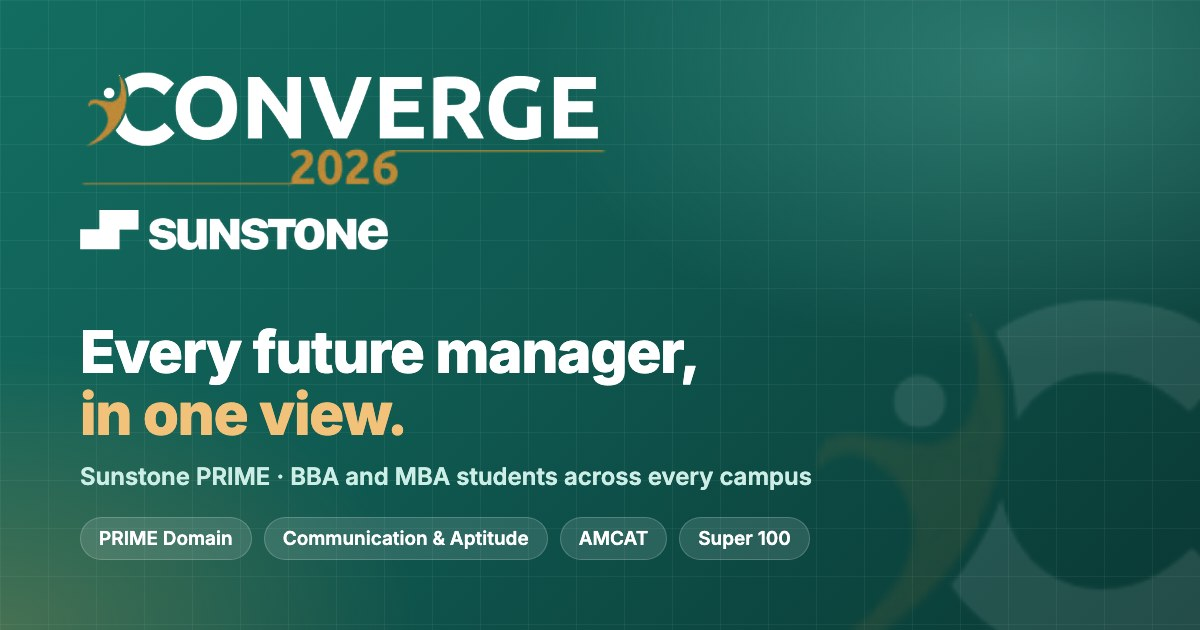
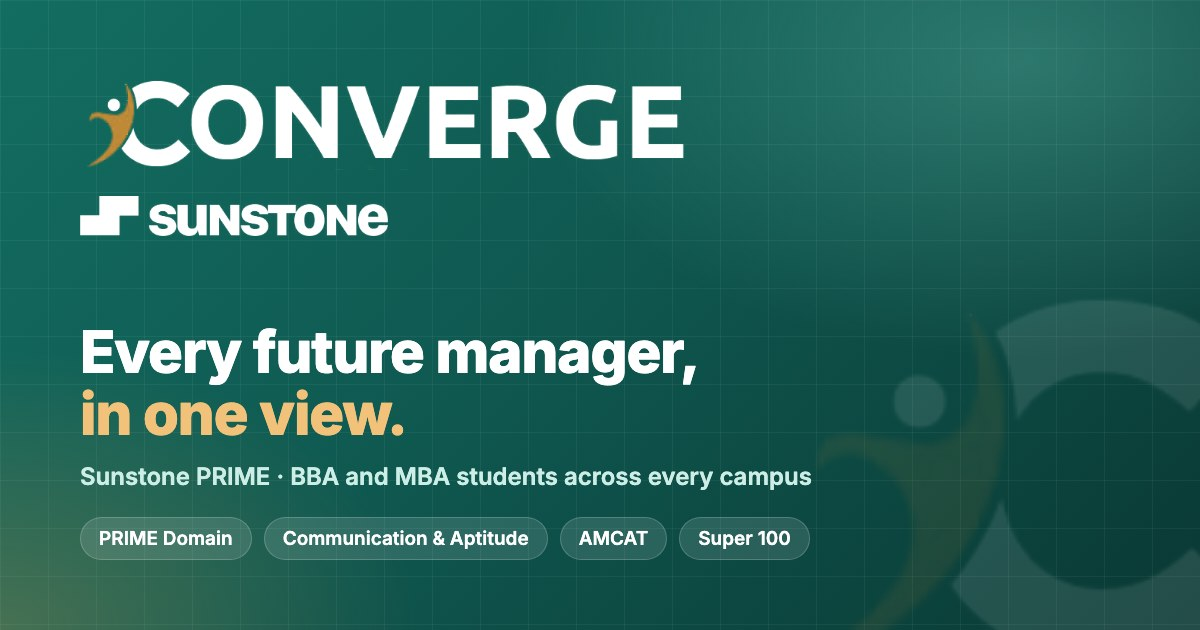
Converge: the name is "Converge · Sunstone PRIME", without 2026
Titles, emails, link previews and on-page text drop "2026", and the logo is the
CONVERGE wordmark without the 2026 line (converge-wordmark-*.png).

Changed region(s): [[0.0617, 0.1206, 0.5858, 0.4222]]

diff --git a/converge.html b/converge.html
@@ -7,7 +7,7 @@
     <meta name="theme-color" content="#1a3e70" />
     <!-- Internal dashboard listing students by name: keep it out of search results. -->
     <meta name="robots" content="noindex, nofollow" />
-    <title>Converge 2026 · Sunstone PRIME</title>
+    <title>Converge · Sunstone PRIME</title>
     <meta
       name="description"
       content="Student progress for Sunstone PRIME management students (BBA, MBA): PRIME domains, communication and aptitude, AMCAT, internal marks, attendance and Super 100."
@@ -20,7 +20,7 @@
     -->
     <meta property="og:type" content="website" />
     <meta property="og:site_name" content="Sunstone PRIME" />
-    <meta property="og:title" content="Converge 2026 · Sunstone PRIME" />
+    <meta property="og:title" content="Converge · Sunstone PRIME" />
     <meta
       property="og:description"
       content="Every future manager, in one view: PRIME domains, communication and aptitude, AMCAT, internal marks, attendance and Super 100 for Sunstone PRIME's BBA and MBA students."
@@ -32,11 +32,11 @@
     <meta property="og:image:height" content="630" />
     <meta
       property="og:image:alt"
-      content="Converge 2026 by Sunstone PRIME: every future manager, in one view"
+      content="Converge by Sunstone PRIME: every future manager, in one view"
     />
     <meta property="og:locale" content="en_IN" />
     <meta name="twitter:card" content="summary_large_image" />
-    <meta name="twitter:title" content="Converge 2026 · Sunstone PRIME" />
+    <meta name="twitter:title" content="Converge · Sunstone PRIME" />
     <meta
       name="twitter:description"
       content="PRIME domains, communication and aptitude, AMCAT, internal marks, attendance and Super 100 for BBA and MBA students."

diff --git a/api/_email.ts b/api/_email.ts
@@ -282,21 +282,21 @@ export const SITE = 'https://vertex.sunstone.in';
 
 /**
  * How emails look and where they link, for the site they are sent from (api/_app.ts):
- * Vertex, or Converge 2026 (management students). CONVERGE_SITE_URL overrides Converge's
+ * Vertex, or Converge (management students). CONVERGE_SITE_URL overrides Converge's
  * address (e.g. a vercel.app address until converge.sunstone.in is set up).
  */
 export function brand() {
   if (currentApp() === 'converge') {
     return {
-      name: 'Converge 2026',
-      full: 'Converge 2026 · Sunstone PRIME',
+      name: 'Converge',
+      full: 'Converge · Sunstone PRIME',
       header:
-        'Converge <span style="color:#d4a24c">2026</span> <span style="color:#b5cae6;font-weight:normal;font-size:13px">· Sunstone PRIME</span>',
+        'Converge <span style="color:#d4a24c">·</span> <span style="color:#b5cae6;font-weight:normal;font-size:13px">Sunstone PRIME</span>',
       site: (process.env.CONVERGE_SITE_URL?.trim() || 'https://converge.sunstone.in').replace(
         /\/+$/,
         ''
       ),
-      logoWhite: 'converge-logo-white.png',
+      logoWhite: 'converge-wordmark-white.png',
     };
   }
   return {
@@ -308,7 +308,7 @@ export function brand() {
   };
 }
 
-/** The sender with the site's name: "Converge 2026 · Sunstone PRIME <noreply@…>" for Converge. */
+/** The sender with the site's name: "Converge · Sunstone PRIME <noreply@…>" for Converge. */
 function sentAs(from: string) {
   if (currentApp() !== 'converge') return from;
   const address = from.match(/<([^>]+)>/)?.[1] ?? from.trim();

diff --git a/src/converge/components/Layout.tsx b/src/converge/components/Layout.tsx
@@ -41,11 +41,7 @@ export function Layout() {
         />
         <div className="border-b border-slate-200/80 shadow-[0_8px_24px_-18px_rgb(15_23_42/0.35)]">
           <div className="mx-auto flex max-w-7xl flex-wrap items-center gap-x-5 gap-y-2 px-4 py-2.5">
-            <Link
-              to="/"
-              className="flex shrink-0 items-center gap-3"
-              aria-label="Converge 2026 home"
-            >
+            <Link to="/" className="flex shrink-0 items-center gap-3" aria-label="Converge home">
               <ConvergeLogo className="h-7 sm:h-9" />
               <span className="hidden items-center self-stretch border-l border-slate-300 pl-3 sm:flex">
                 <BrandLockup logoClassName="h-3.5" primeClassName="text-[7px]" />
@@ -100,7 +96,7 @@ export function Layout() {
         <div className="mx-auto flex max-w-7xl flex-wrap items-center justify-between gap-3 px-4 py-4 text-xs text-slate-500">
           <span className="flex items-center gap-3">
             <ConvergeLogo className="h-5 opacity-90" />
-            <span>Converge 2026 · Sunstone PRIME</span>
+            <span>Converge · Sunstone PRIME</span>
           </span>
           <span>
             PRIME domain, communication and aptitude, AMCAT, exams and attendance, from the LMS

diff --git a/index.html b/index.html
@@ -50,11 +50,11 @@
 
     <!-- Saved theme (see src/lib/theme.ts), applied before the first paint so it never flashes. -->
     <script>
-      // Converge 2026 (any address with "converge" in it) shares this page: no Vertex intro,
+      // Converge (any address with "converge" in it) shares this page: no Vertex intro,
       // and its own name, icon and colours before anything paints (src/main.tsx loads its app).
       if (/converge/i.test(location.hostname)) {
         document.documentElement.classList.add('converge', 'splash-seen');
-        document.title = 'Converge 2026 · Sunstone PRIME';
+        document.title = 'Converge · Sunstone PRIME';
         document.querySelector('link[rel="icon"]').setAttribute('href', '/converge-mark.png');
         document.querySelector('meta[name="theme-color"]').setAttribute('content', '#0f5148');
       }

diff --git a/src/converge/components/ConvergeLogo.tsx b/src/converge/components/ConvergeLogo.tsx
@@ -15,8 +15,8 @@ export function ConvergeLogo({
   if (onDark) {
     return (
       <img
-        src="/converge-logo-white.png"
-        alt="Converge 2026"
+        src="/converge-wordmark-white.png"
+        alt="Converge"
         width={808}
         height={181}
         className={size}
@@ -26,15 +26,15 @@ export function ConvergeLogo({
   return (
     <>
       <img
-        src="/converge-logo-ink.png"
-        alt="Converge 2026"
+        src="/converge-wordmark-ink.png"
+        alt="Converge"
         width={808}
         height={181}
         className={cn(size, 'dark:hidden')}
       />
       <img
-        src="/converge-logo-white.png"
-        alt="Converge 2026"
+        src="/converge-wordmark-white.png"
+        alt="Converge"
         width={808}
         height={181}
         className={cn(size, 'hidden dark:block')}

diff --git a/vite.config.ts b/vite.config.ts
@@ -106,7 +106,7 @@ function siteUrlPlugin(siteUrl: string): Plugin {
 }
 
 /**
- * Converge 2026 pages for converge.* addresses (converge.localhost in development), as
+ * Converge pages for converge.* addresses (converge.localhost in development), as
  * vercel.json does in production: page requests get converge.html instead of index.html.
  */
 function convergePagePlugin(): Plugin {
@@ -171,7 +171,7 @@ export default defineConfig(({ mode }) => {
     },
     build: {
       rollupOptions: {
-        // Two sites: Vertex (index.html) and Converge 2026 (converge.html), see api/_app.ts.
+        // Two sites: Vertex (index.html) and Converge (converge.html), see api/_app.ts.
         // Converge joins the build once its pages exist (src/converge/main.tsx).
         input: {
           main: path.resolve(__dirname, 'index.html'),

diff --git a/src/main.tsx b/src/main.tsx
@@ -1,4 +1,4 @@
-// One page, two sites: Converge 2026 for any address with "converge" in it (converge.sunstone.in,
+// One page, two sites: Converge for any address with "converge" in it (converge.sunstone.in,
 // sunstone-converge.vercel.app, converge.localhost), Vertex otherwise. Hosts serve this same
 // page for every address, so the app is chosen here; the server does the same for the data
 // (api/_app.ts). index.html has already set Converge's title, icon and colours before paint.

diff --git a/api/_app.ts b/api/_app.ts
@@ -1,4 +1,4 @@
-// Two sites on one deployment: Vertex (vertex.sunstone.in, tech students) and Converge 2026
+// Two sites on one deployment: Vertex (vertex.sunstone.in, tech students) and Converge
 // (converge.sunstone.in, or any address with "converge" in it, management students). They
 // share this server code; each has its own database (DATABASE_URL and CONVERGE_DATABASE_URL),
 // chosen per request by the address it came to. Every endpoint is wrapped in forApp, so db()

diff --git a/middleware.ts b/middleware.ts
@@ -1,4 +1,4 @@
-// Converge 2026's addresses (any with "converge" in it) get Converge's page, converge.html,
+// Converge's addresses (any with "converge" in it) get Converge's page, converge.html,
 // instead of Vertex's index.html. Hosts serve index.html for the home page before any rewrite,
 // so this runs first. It matters for link previews: WhatsApp and the like read the page's
 // HTML without running its code, so they must get Converge's title, description and image.

diff --git a/scripts/_school.ts b/scripts/_school.ts
@@ -1,5 +1,5 @@
 // Which school the sync scripts work for: tech (SST, Vertex: B.Tech, BCA, MCA...) or management
-// (SSM, Converge 2026: BBA, MBA). Set SCHOOL=SSM, with DATABASE_URL pointing at the Converge
+// (SSM, Converge: BBA, MBA). Set SCHOOL=SSM, with DATABASE_URL pointing at the Converge
 // database, to sync Converge; the default is Vertex. Each has its own database, so the same
 // tables and scripts serve both without mixing their students.
 

diff --git a/src/globals.css b/src/globals.css
@@ -645,7 +645,7 @@ html.splash-gone .rise-stagger > * {
 }
 
 /*
- * Converge 2026 (management students): its own colours, a deep teal with the gold of its
+ * Converge (management students): its own colours, a deep teal with the gold of its
  * logo, so it never looks like Vertex. index.html (and src/converge/main.tsx) put the
  * `converge` class on <html> for Converge's addresses; every brand-* utility follows.
  */

diff --git a/src/converge/routes.ts b/src/converge/routes.ts
@@ -1,4 +1,4 @@
-// Converge 2026's pages, as code-based TanStack Router routes. Vertex has its own file-based
+// Converge's pages, as code-based TanStack Router routes. Vertex has its own file-based
 // route tree (src/routes, src/routeTree.gen.ts); Converge does not use it. The pages are
 // attached in router.tsx, so the pages can import these routes without an import cycle.
 
